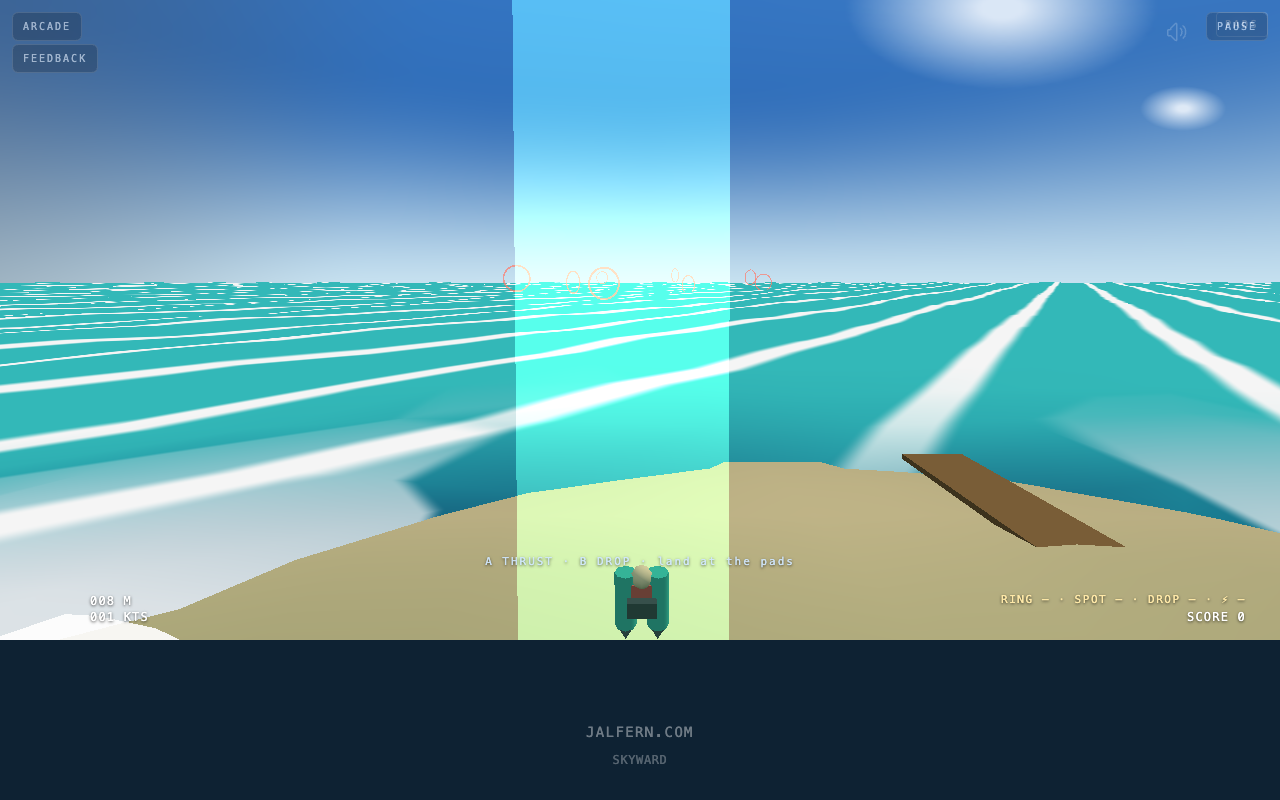
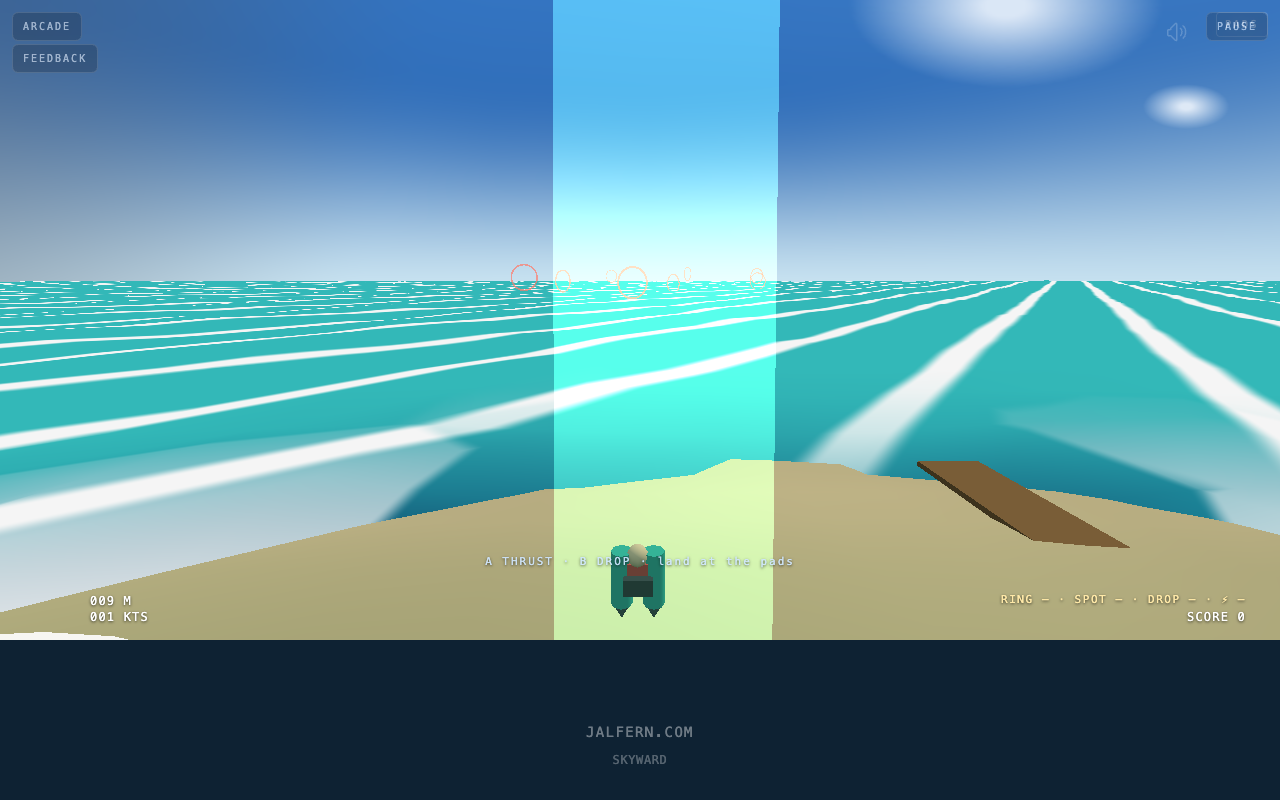
SKYWARD: living storm cell (drifting thunderhead + travelling downdraft) (#3271)
* SKYWARD: the storm cell lives — stormPos(t) drifts the thunderhead, weather and paint follow (#3267)

* SKYWARD: living-storm harness legs, DEV probe, honest gaps (#3267)

diff --git a/src/games/Skyward/renderer.js b/src/games/Skyward/renderer.js
@@ -208,11 +208,16 @@ void main(){
         const a = rngp(i * 3 + 1) * Math.PI * 2
         addCloud(Math.cos(a) * (420 + rngp(i) * 700), 130 + rngp(i * 7) * 90, Math.sin(a) * (420 + rngp(i * 5) * 700) - 60, 90 + rngp(i * 11) * 120, 0xf6faff)
     }
-    // storm cell: dark cluster + rain shaft
+    // storm cell: dark cluster + rain shaft — #3267: the whole deck rides in
+    // one group so the painted cell follows stormPos(t); the sim answers for
+    // the weather at the same place (thermalPos law → the cloud you see is
+    // the weather you get).
+    const stormCell = new THREE.Group()
+    scene.add(stormCell)
     for (let i = 0; i < 16; i++) {
         const a = rngp(i * 13 + 5) * Math.PI * 2
         const r = rngp(i * 17) * world.storm.r * 0.8
-        addCloud(world.storm.x + Math.cos(a) * r, 150 + rngp(i * 19) * 70, world.storm.z + Math.sin(a) * r, 150 + rngp(i * 23) * 140, 0x57616f)
+        stormCell.add(addCloud(world.storm.x + Math.cos(a) * r, 150 + rngp(i * 19) * 70, world.storm.z + Math.sin(a) * r, 150 + rngp(i * 23) * 140, 0x57616f))
     }
     const rainN = lite ? 240 : 520
     const rainPos = new Float32Array(rainN * 3)
@@ -224,7 +229,7 @@ void main(){
     const rainGeo = new THREE.BufferGeometry()
     rainGeo.setAttribute('position', new THREE.BufferAttribute(rainPos, 3))
     const rain = new THREE.Points(rainGeo, new THREE.PointsMaterial({ color: 0xa8c4e4, size: lite ? 2.4 : 1.8, transparent: true, opacity: 0.55, depthWrite: false }))
-    scene.add(rain)
+    stormCell.add(rain)
 
     // lightning bolt — a jagged ribbon from the cell base down to the water
     // near the core, flashing on the same peaks the sky goes bright. The sky
@@ -448,10 +453,14 @@ void main(){
         seaMat.uniforms.uCam.value.copy(camera.position)
         const flash = world.stormFlash(t)
         skyMat.uniforms.uFlash.value = flash
+        // #3267 — the painted cell tracks the sim's cell: stormPos(t) is the
+        // one position both the weather and the sky read this frame.
+        const cellP = world.stormPos(t)
+        stormCell.position.set(cellP.x - world.storm.x, 0, cellP.z - world.storm.z)
         // bolt to the water near the core, on flash peaks — re-jittered at
         // 26 Hz so it flickers rather than shimmers
         if (flash > 0) {
-            const baseX = world.storm.x + 12, baseZ = world.storm.z - 8
+            const baseX = cellP.x + 12, baseZ = cellP.z - 8
             const tickQ = Math.floor(t * 26)
             const topY = 150, botY = 2.5
             const pts = []

diff --git a/src/games/Skyward/world.js b/src/games/Skyward/world.js
@@ -161,10 +161,31 @@ export function makeWorld(seed) {
         return lift
     }
 
-    // the storm cell, east of the isle — gusts, a core downdraft, a rising edge
+    // the storm cell, east of the isle — gusts, a core downdraft, a rising
+    // edge. #3267: the cell LIVES. stormPos(t) is the ONE answer for where
+    // the thunderhead stands — sim weather, the HUD's depth read and the
+    // painted cloud deck all follow it (the thermalPos law, lifted to the
+    // storm). It sweeps a slow ellipse — east/west ~140 s, north/south
+    // ~190 s, phase from the seed — carrying the downdraft, the rising
+    // ring and the rain with it, so the line you memorised at the start of
+    // a THUNDERPASS is not the line you fly at the end. Gates stay fixed:
+    // the school forgives, and only the weather moves. Amplitude is tuned
+    // by law, not taste: the drifting cell still never grounds (its centre
+    // stays offshore), never reaches the bay rings, pad, school or launch
+    // at all, never greets the pass start at more than s≈0.25 — and the
+    // pass gates keep feeling the cell through the whole sweep.
+    // scripts/skywardcheck.mjs sweeps the clock and pins every one of it.
     const storm = { x: 560, z: -40, r: 300 }
+    const stormPh = ((r >>> 13) % 6283) / 1000   // per-seed phase, 0..2π
+    function stormPos(t) {
+        return {
+            x: storm.x + Math.sin(t * 0.045 + stormPh) * 64 + wind.x * Math.sin(t * 0.012 + stormPh) * 1.8,
+            z: storm.z + Math.cos(t * 0.033 + stormPh * 1.37) * 34 + wind.z * Math.sin(t * 0.014 + stormPh) * 1.8,
+        }
+    }
     function stormAt(x, z, t) {
-        const d = Math.hypot(x - storm.x, z - storm.z)
+        const p = stormPos(t)
+        const d = Math.hypot(x - p.x, z - p.z)
         if (d > storm.r * 1.25) return { s: 0, gust: { x: 0, z: 0 }, vy: 0 }
         const s = bell(d, storm.r)
         const ring = Math.abs(d - storm.r * 0.86) < 55 ? 1.4 : 0
@@ -244,7 +265,7 @@ export function makeWorld(seed) {
     }
 
     return {
-        seed: seed >>> 0, wind, terrainHeight, thermalLift, thermalPos, stormAt, stormFlash,
+        seed: seed >>> 0, wind, terrainHeight, thermalLift, thermalPos, stormAt, stormPos, stormFlash,
         waves, waterHeightAt, waterVy, waterGLSL, thermals, storm,
         rings, targets, pad, school, launch, passStart, passRings,
     }

diff --git a/src/games/Skyward/index.jsx b/src/games/Skyward/index.jsx
@@ -297,6 +297,17 @@ const SkywardGame = () => {
                 recycle: () => { recycleCraft(gs); return stateOf(gs) },
                 hash: () => gs.hash,
                 gameTime: () => gs.tick / 60,
+                // #3267 — where the cell stands in sim time right now (the ONE
+                // position sim weather and painted clouds share), plus how deep
+                // the pass start line currently sits under it
+                stormCell: () => {
+                    const p = gs.world.stormPos(gs.t)
+                    return {
+                        x: p.x, z: p.z,
+                        dx: p.x - gs.world.storm.x, dz: p.z - gs.world.storm.z,
+                        startS: +gs.world.stormAt(gs.world.passStart.x, gs.world.passStart.z, gs.t).s.toFixed(3),
+                    }
+                },
                 simSleep: (secs) => new Promise((res) => {
                     const target = gs.tick + Math.round(secs * 60)
                     const iv = setInterval(() => {

diff --git a/src/games/Skyward/README.md b/src/games/Skyward/README.md
@@ -11,7 +11,10 @@ the thunderstorm a course (THUNDERPASS) and set the thermals drifting.
   + carved course flats + a low supply corridor (the belt's route), the shared
   Gerstner field, thermals (drifting with the sea-breeze via `thermalPos(c,t)`
   — the ONE answer for sim lift, autopilot target and painted cumulus), the
-  storm cell and the THUNDERPASS gate line (`passStart`, `passRings`).
+  storm cell — which LIVES (#3267): `stormPos(t)` sweeps it on a slow seeded
+  ellipse (E/W ±64 m ~140 s, N/S ±34 m ~190 s) and gusts, core downdraft,
+  rain, clouds and the bolt anchor all read it — and the fixed THUNDERPASS
+  gate line (`passStart`, `passRings`) the weather moves over.
 - `sim.js` — 60 Hz pure sim (zero DOM, zero Math.random): plane / glider /
   belt physics, RING RUN / SPOT LANDING / TARGET DROP / THUNDERPASS scoring,
   graduation. The storm fights the PLANE too (rung 2): gusts, ~2 m/s core
@@ -43,9 +46,14 @@ npm run skywardcheck -- --mutate   # proves the harness can fail
 node scripts/skywardplay.mjs       # headless Chrome: boot → play → events → zero page errors
 ```
 ## Honest gaps
-- Rung 2: the storm cell itself stands still (the gates are fixed; thermals
-  drift, the thunderhead does not). No online (issue: not yet), no second
-  landing strip, engine audio is per-action rather than a continuous loop.
+- **MOVED by #3267:** the storm cell no longer stands still — `stormPos(t)`
+  drifts the whole cell (weather AND paint) while the gates stay fixed, so a
+  memorised THUNDERPASS line is a stale line. What remains of the old bullet:
+  no online (issue: not yet), no second landing strip, engine audio is
+  per-action rather than a continuous loop.
+- The cell drifts on a fixed seeded ellipse, not a steered weather sim (no
+  cell-to-cell travel, no squall line); a long run learns the sweep the way
+  rungs 1's lines were learned.
 - Lightning is scenery — no strike hazard anywhere (by design, the school
   forgives; the downdraft is the punishment).
 - Thermals are analytic columns, not sim'd convection.
